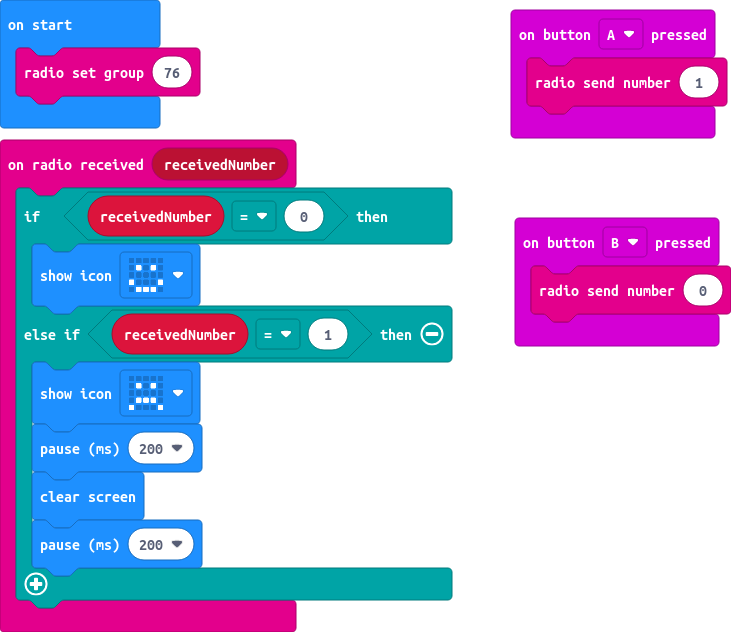
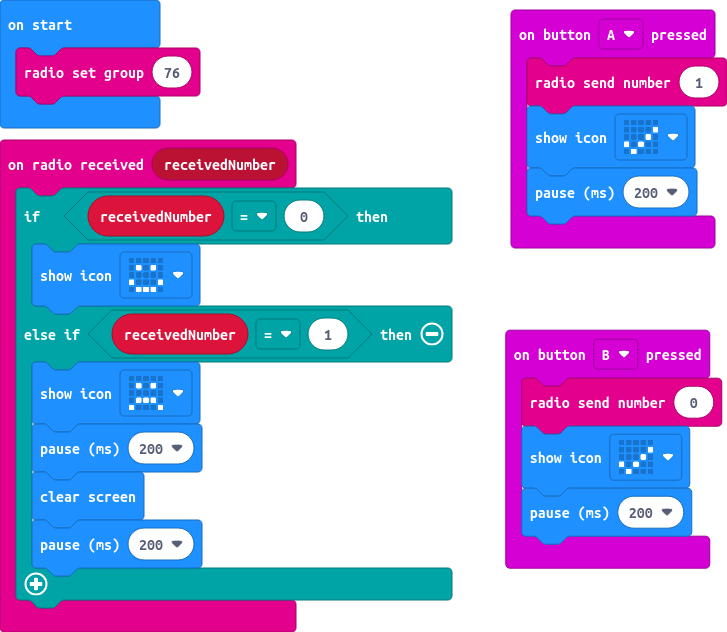
Update main.blocks, main.ts

diff --git a/main.ts b/main.ts
@@ -10,8 +10,12 @@ radio.onReceivedNumber(function (receivedNumber) {
 })
 input.onButtonPressed(Button.A, function () {
     radio.sendNumber(1)
+    basic.showIcon(IconNames.Yes)
+    basic.pause(200)
 })
 input.onButtonPressed(Button.B, function () {
     radio.sendNumber(0)
+    basic.showIcon(IconNames.Yes)
+    basic.pause(200)
 })
 radio.setGroup(76)
